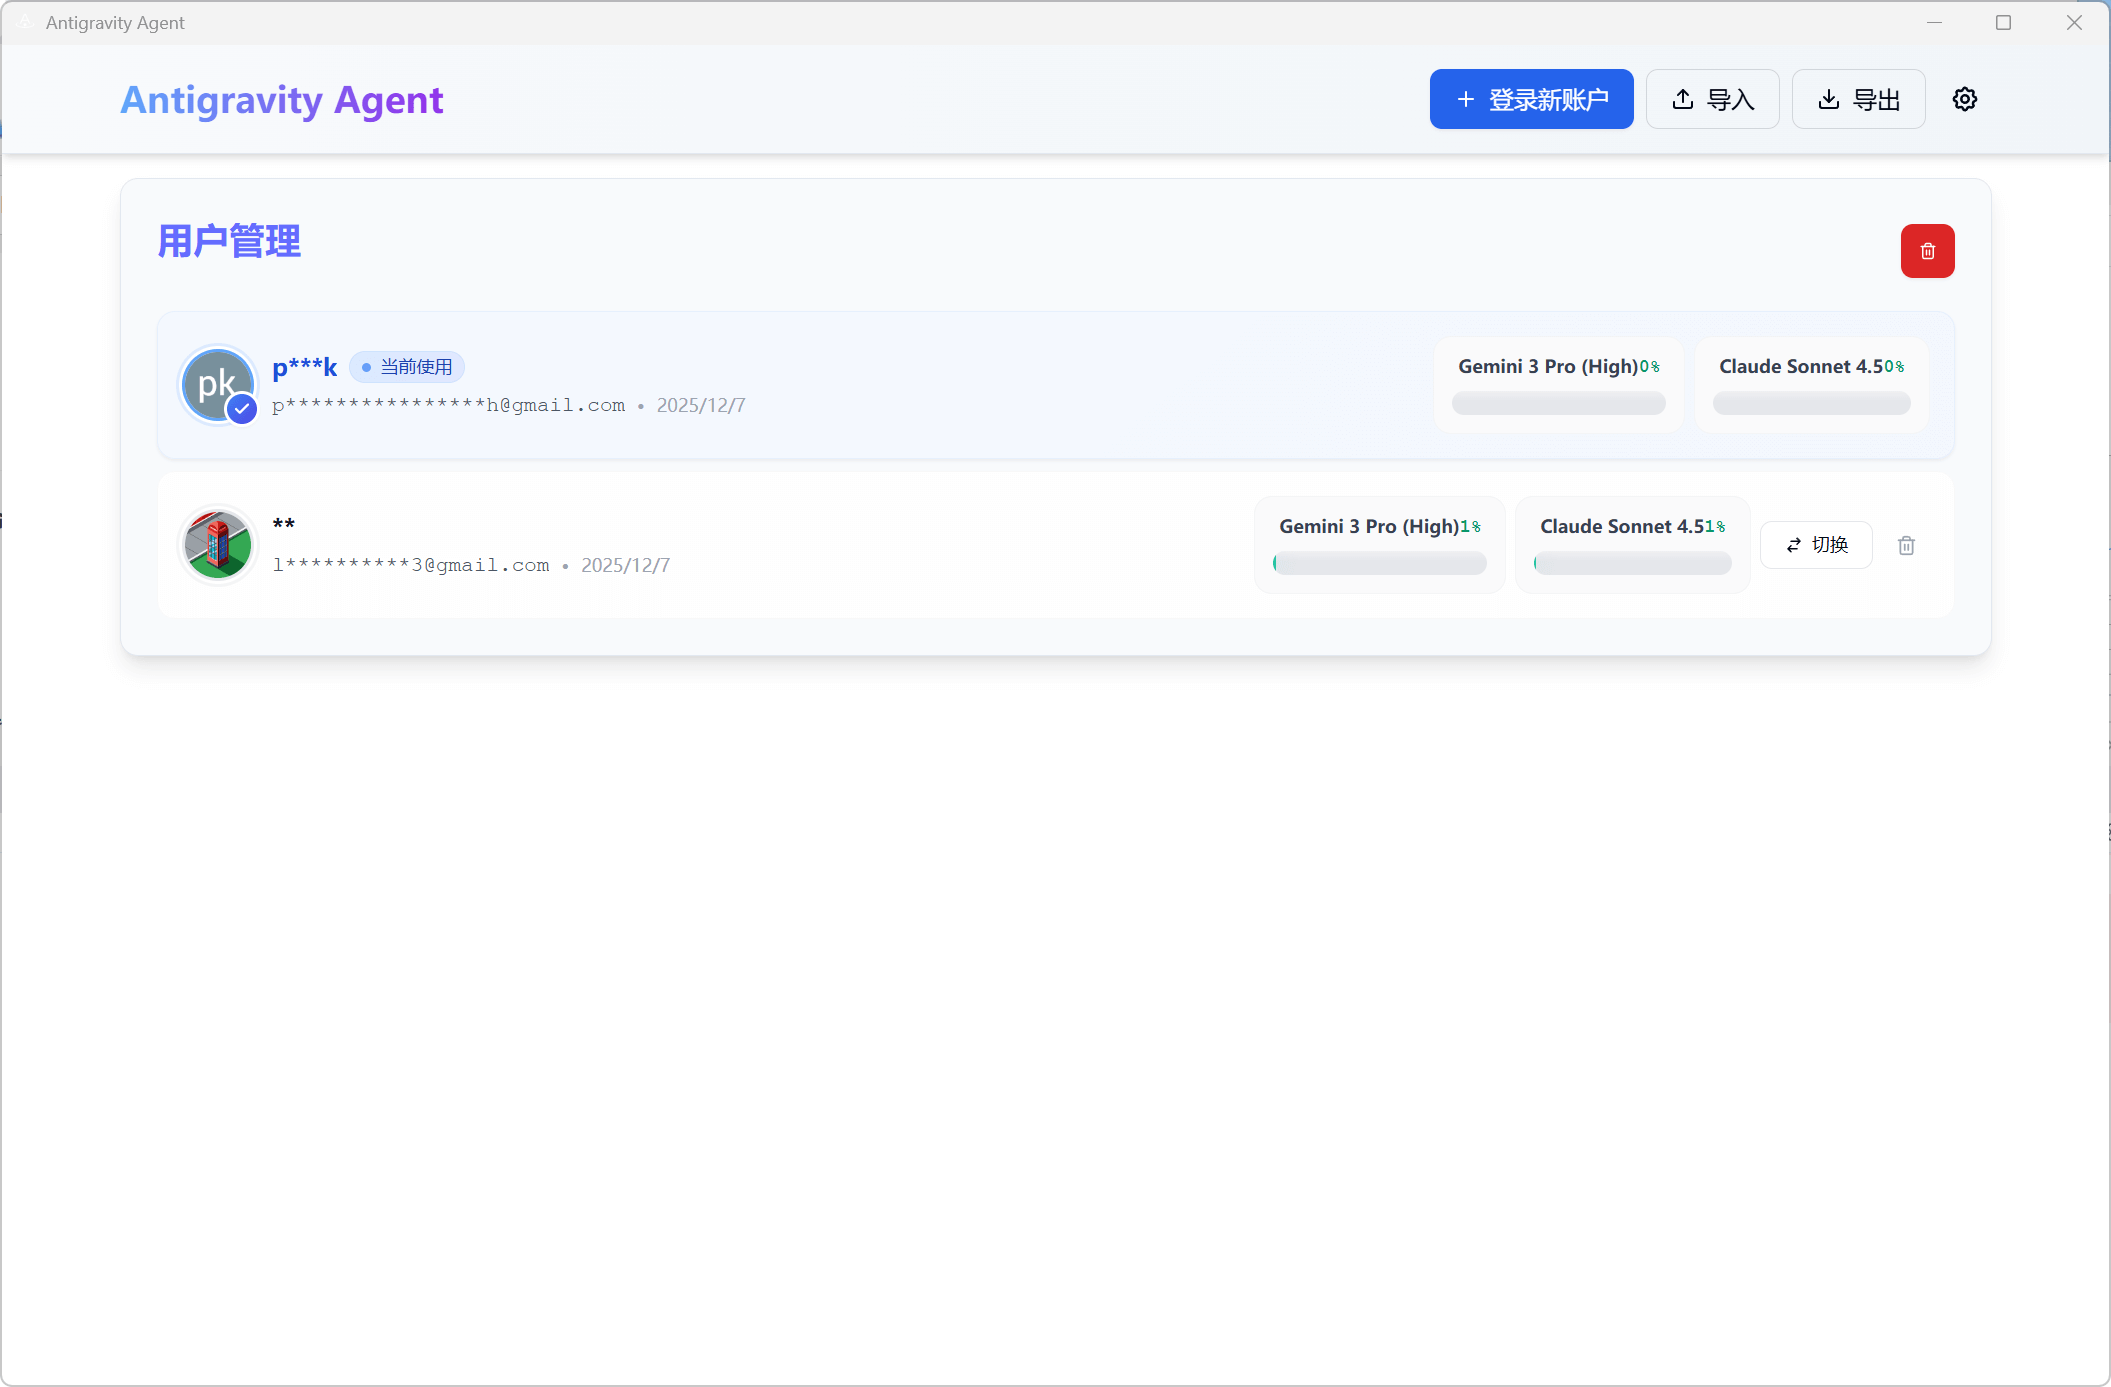
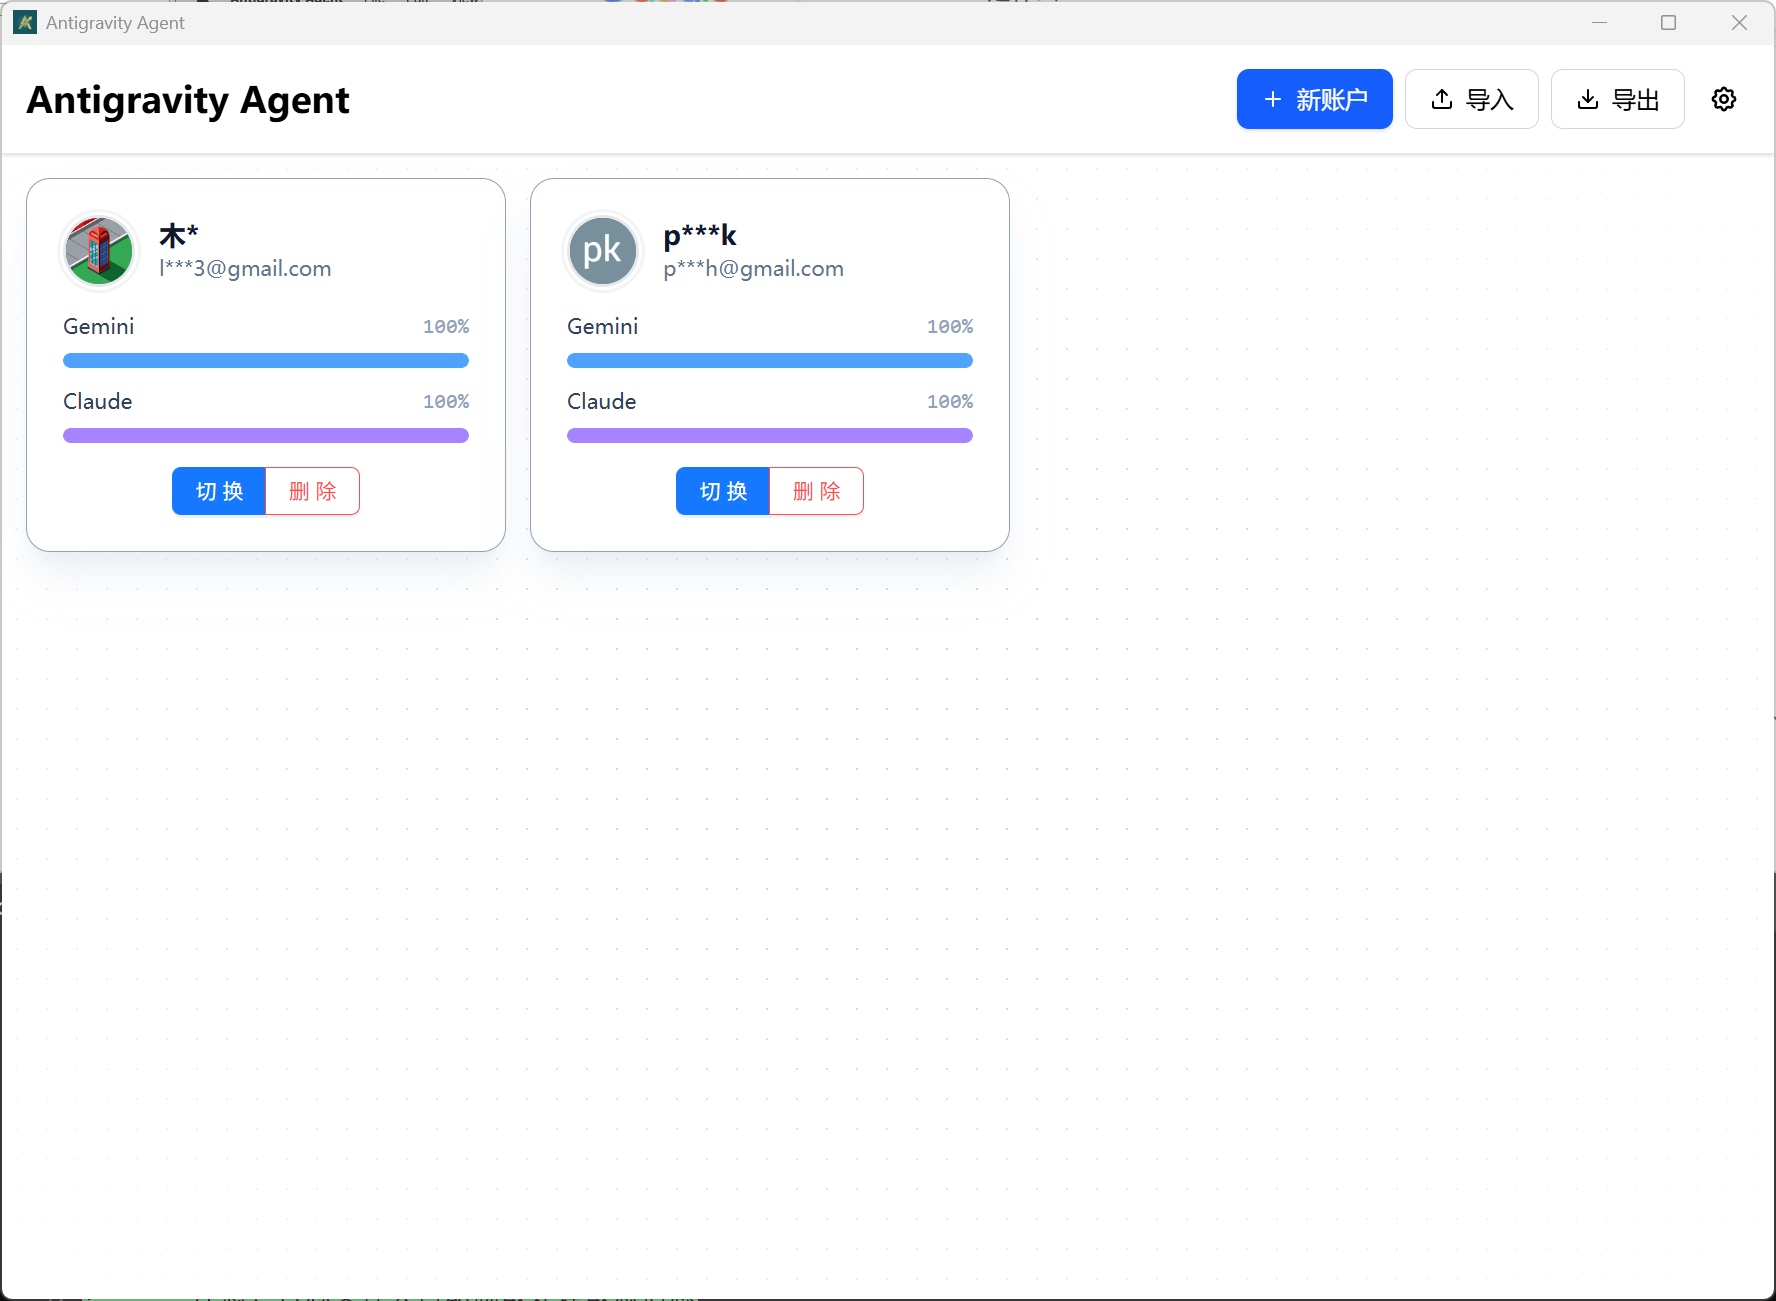
docs

diff --git a/README.md b/README.md
@@ -16,7 +16,7 @@ Linux ✅
 
 ## 📋 操作指南
 
-### 第一次使用
+### 首次启动
 1. 启动 Antigravity Agent
 2. 自动识别并记录当前登录用户
 
@@ -32,6 +32,11 @@ Linux ✅
 ### 导入导出
 - **导出**: 选择保存位置，设置密码，导出所有账户配置
 - **导入**: 选择配置文件，输入密码，恢复账户数据
+
+### 显示用户剩余配额
+
+- 配额信息会在每次大概软件后更新
+- TODO 添加工具栏按照配额排序, 托盘显示配额信息
 
 ## 🐛 Bug 反馈
 
@@ -57,6 +62,7 @@ Linux ✅
 ## 📝 TODO 列表
 
 - [ ] 国际化支持
+- [ ] 添加账户级别显示不同的卡片
 - [ ] 主题支持
 - [ ] 检查更新
 - [ ] 扩展支持
